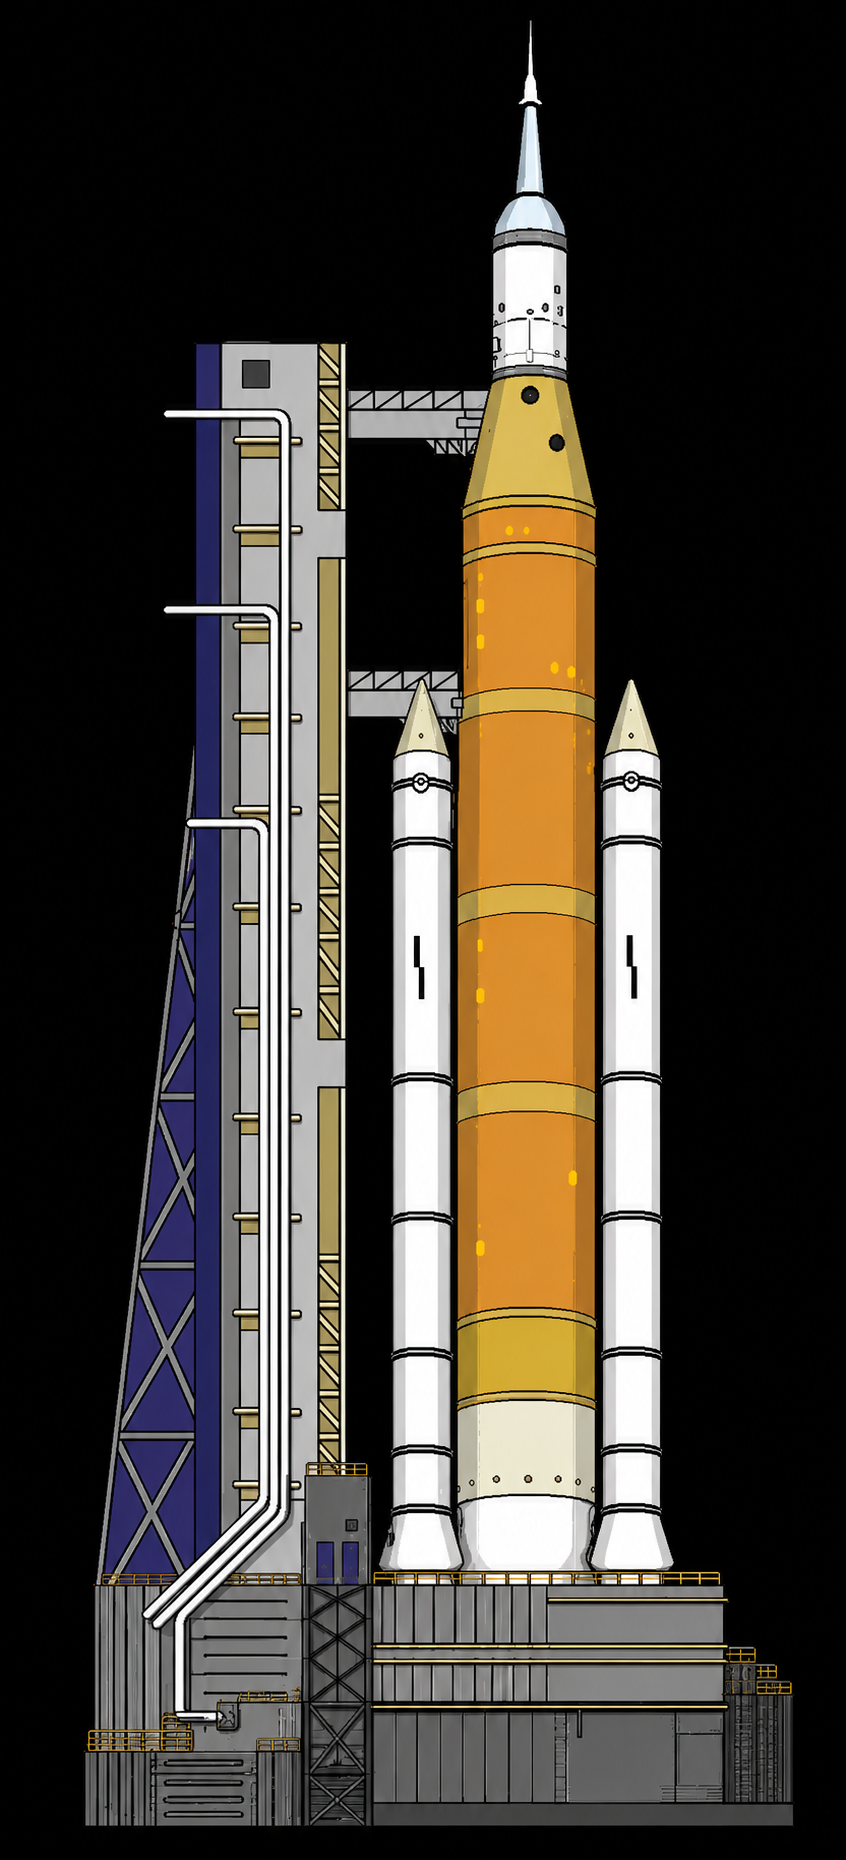
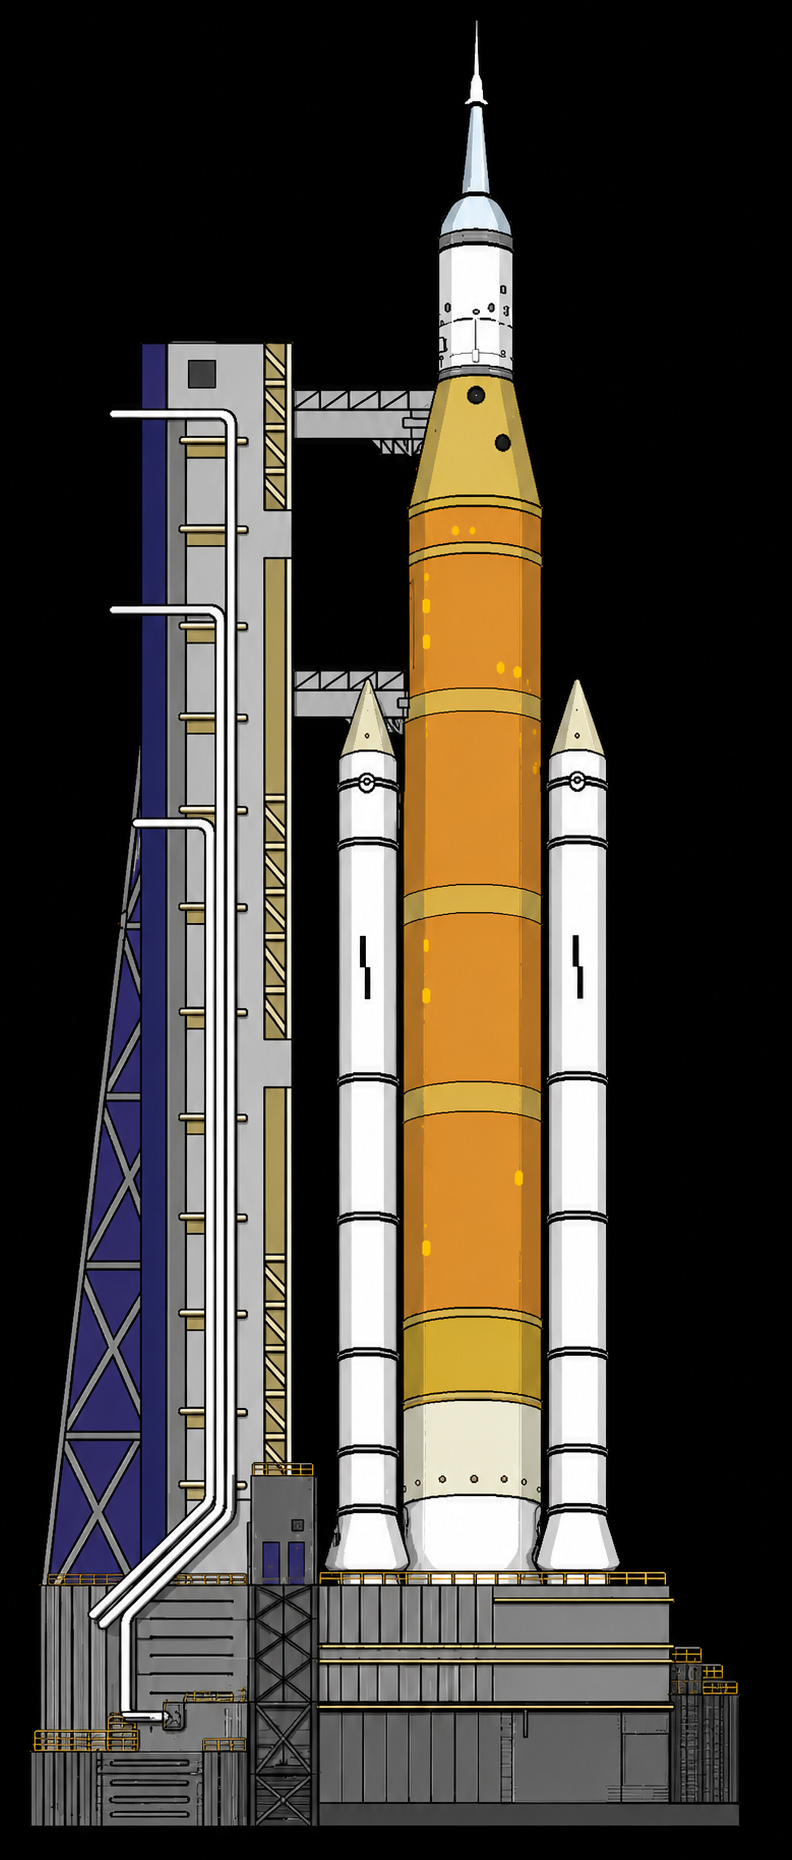
whatever

diff --git a/client/pages/Skills.tsx b/client/pages/Skills.tsx
@@ -18,13 +18,15 @@ export function Skills({ language }: SkillsProps) {
           ))}
         </div>
       </div>
-      <img src="/images/golden-disk.png" alt="Decorative" className="absolute gradient top-[230px] right-[120px] w-96" style={{ maskImage: 'linear-gradient(to right, transparent 0%, black 50%, black 100%)', WebkitMaskImage: 'linear-gradient(to right, transparent 0%, black 50%, black 100%)' }} />
-      <div className="absolute border border-gray-500 bg-black bottom-[70px] right-[120px] w-[250px] text-sm py-4 px-5">
-        {language === 'en' ? (
-          <p><span className="font-bold">Voyager Golden Record: </span>Earth's "Message in a bottle". Containing greetings in 55 languages, music, and sounds of Earth</p>
-        ) : (
-          <p><span className="font-bold">Disco de Oro de Voyager: </span>El "mensaje en una botella" de la Tierra. Contiene saludos en 55 idiomas, música y sonidos de la Tierra</p>
-        )}
+      <div className="absolute top-[230px] right-[120px] pointer-events-none">
+        <img src="/images/golden-disk.png" alt="Decorative" className="gradient w-96" style={{ maskImage: 'linear-gradient(to right, transparent 0%, black 50%, black 100%)', WebkitMaskImage: 'linear-gradient(to right, transparent 0%, black 50%, black 100%)' }} />
+        <div className="absolute border border-gray-500 bg-black -bottom-[30px] left-36 w-[250px] text-sm py-4 px-5 pointer-events-auto">
+          {language === 'en' ? (
+            <p><span className="font-bold">Voyager Golden Record: </span>Earth's "Message in a bottle". Containing greetings in 55 languages, music, and sounds of Earth</p>
+          ) : (
+            <p><span className="font-bold">Disco de Oro de Voyager: </span>El "mensaje en una botella" de la Tierra. Contiene saludos en 55 idiomas, música y sonidos de la Tierra</p>
+          )}
+        </div>
       </div>
     </section>
   );

diff --git a/client/pages/Projects.tsx b/client/pages/Projects.tsx
@@ -8,10 +8,10 @@ type ProjectsProps = {
 export function Projects({ language }: ProjectsProps) {
   return (
     <section id="projects" className="relative min-h-screen bg-black w-full flex flex-col items-center justify-start px-6 md:px-12 lg:px-20 text-white pt-32">
-      <h2 className="text-4xl md:text-5xl font-bold mb-8">
+      <h2 className="text-4xl md:text-5xl font-bold mb-8 z-0">
         {language === 'en' ? 'My Projects' : 'Mis Proyectos'}
       </h2>
-      <div className="container mx-auto px-6 relative z-10 pr-36">
+      <div className="container mx-auto px-6 relative z-50 pr-36">
         <div className="flex flex-col gap-6 md:gap-8 max-w-5xl mx-auto">
           {(language === 'en' ? projects : proyectos).map((project) => (
             <ProjectCard key={project.title} project={project} />
@@ -19,7 +19,7 @@ export function Projects({ language }: ProjectsProps) {
         </div>
       </div>
       <div>
-        <img src="/images/rocket-launch.png" alt="Decorative" className="absolute bottom-36 right-[200px] w-[35vw] pointer-events-none" />
+        <img src="/images/rocket-launch.png" alt="Decorative" className="absolute z-100 bottom-36 right-[200px] w-[500px] pointer-events-none" />
       </div>
     </section>
   )